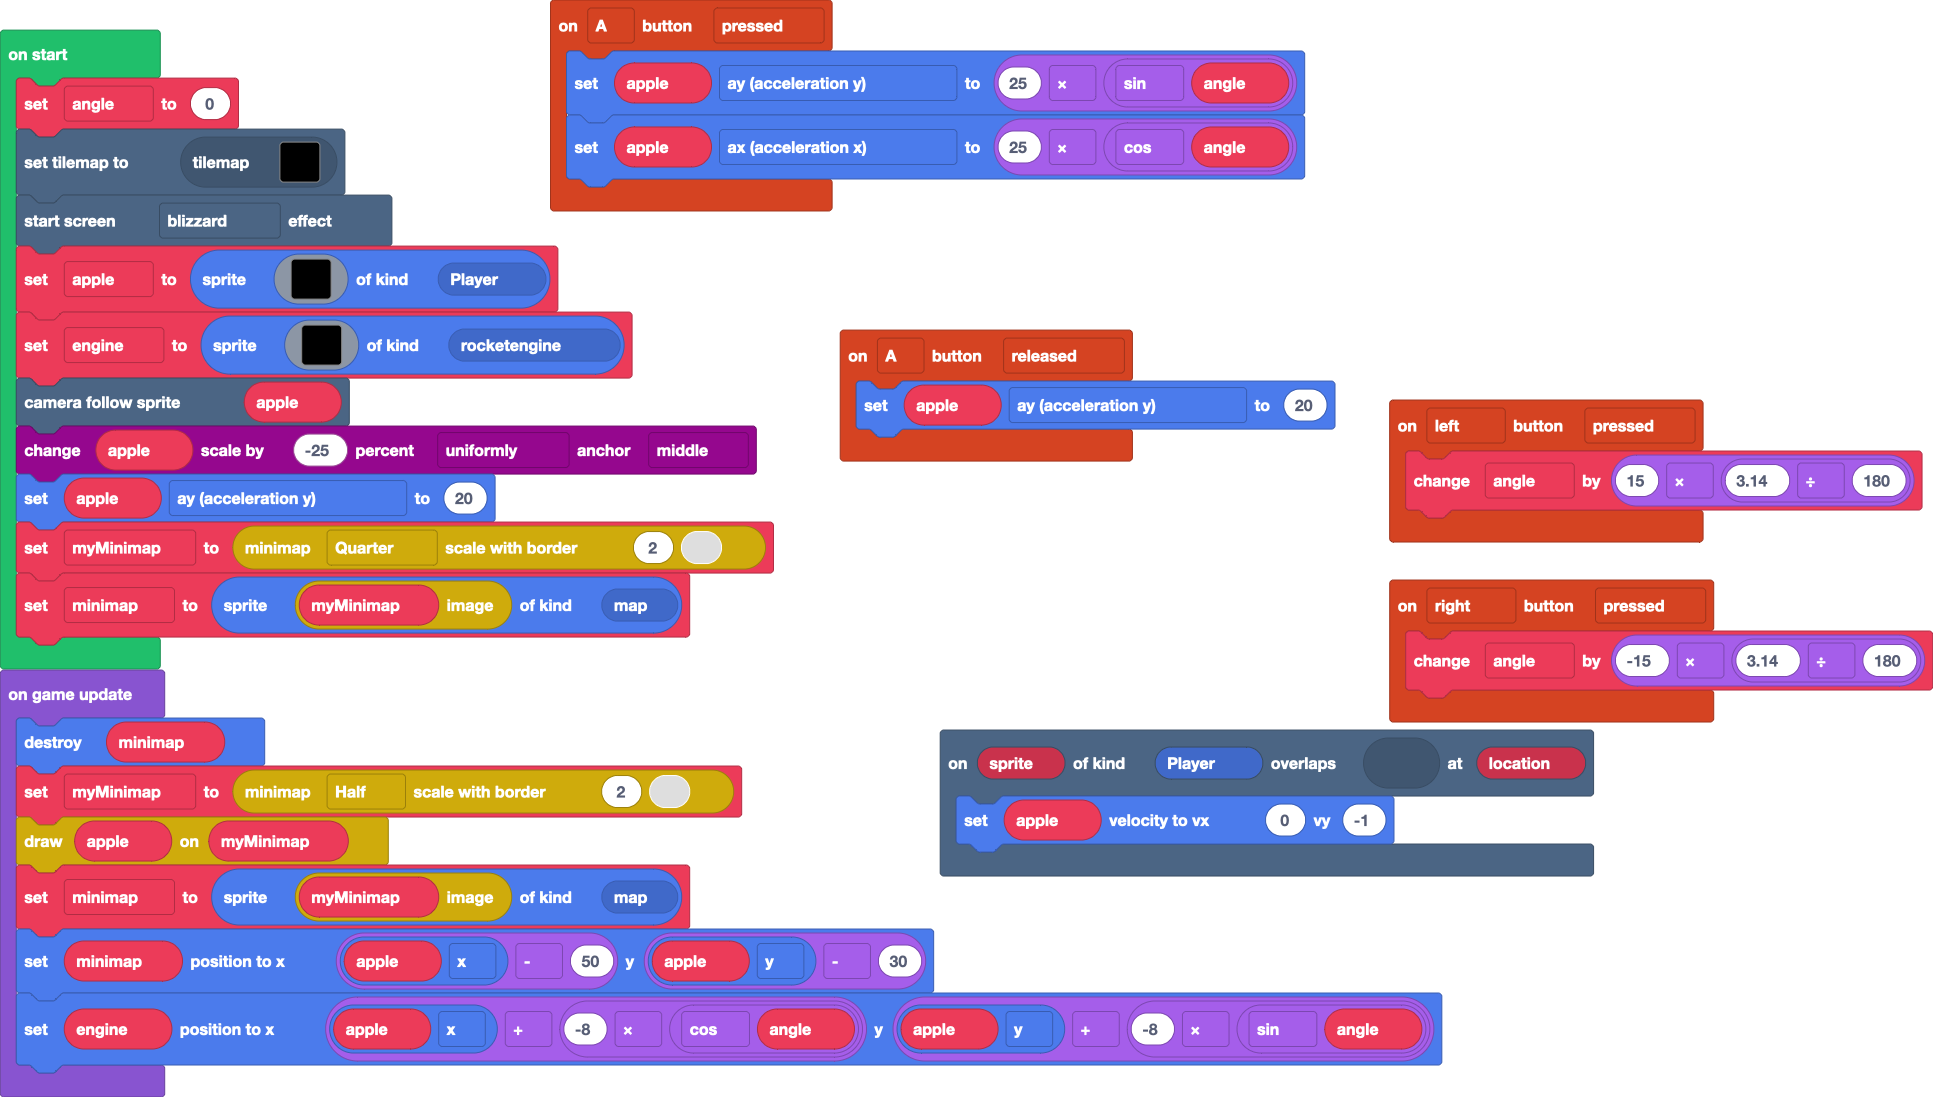
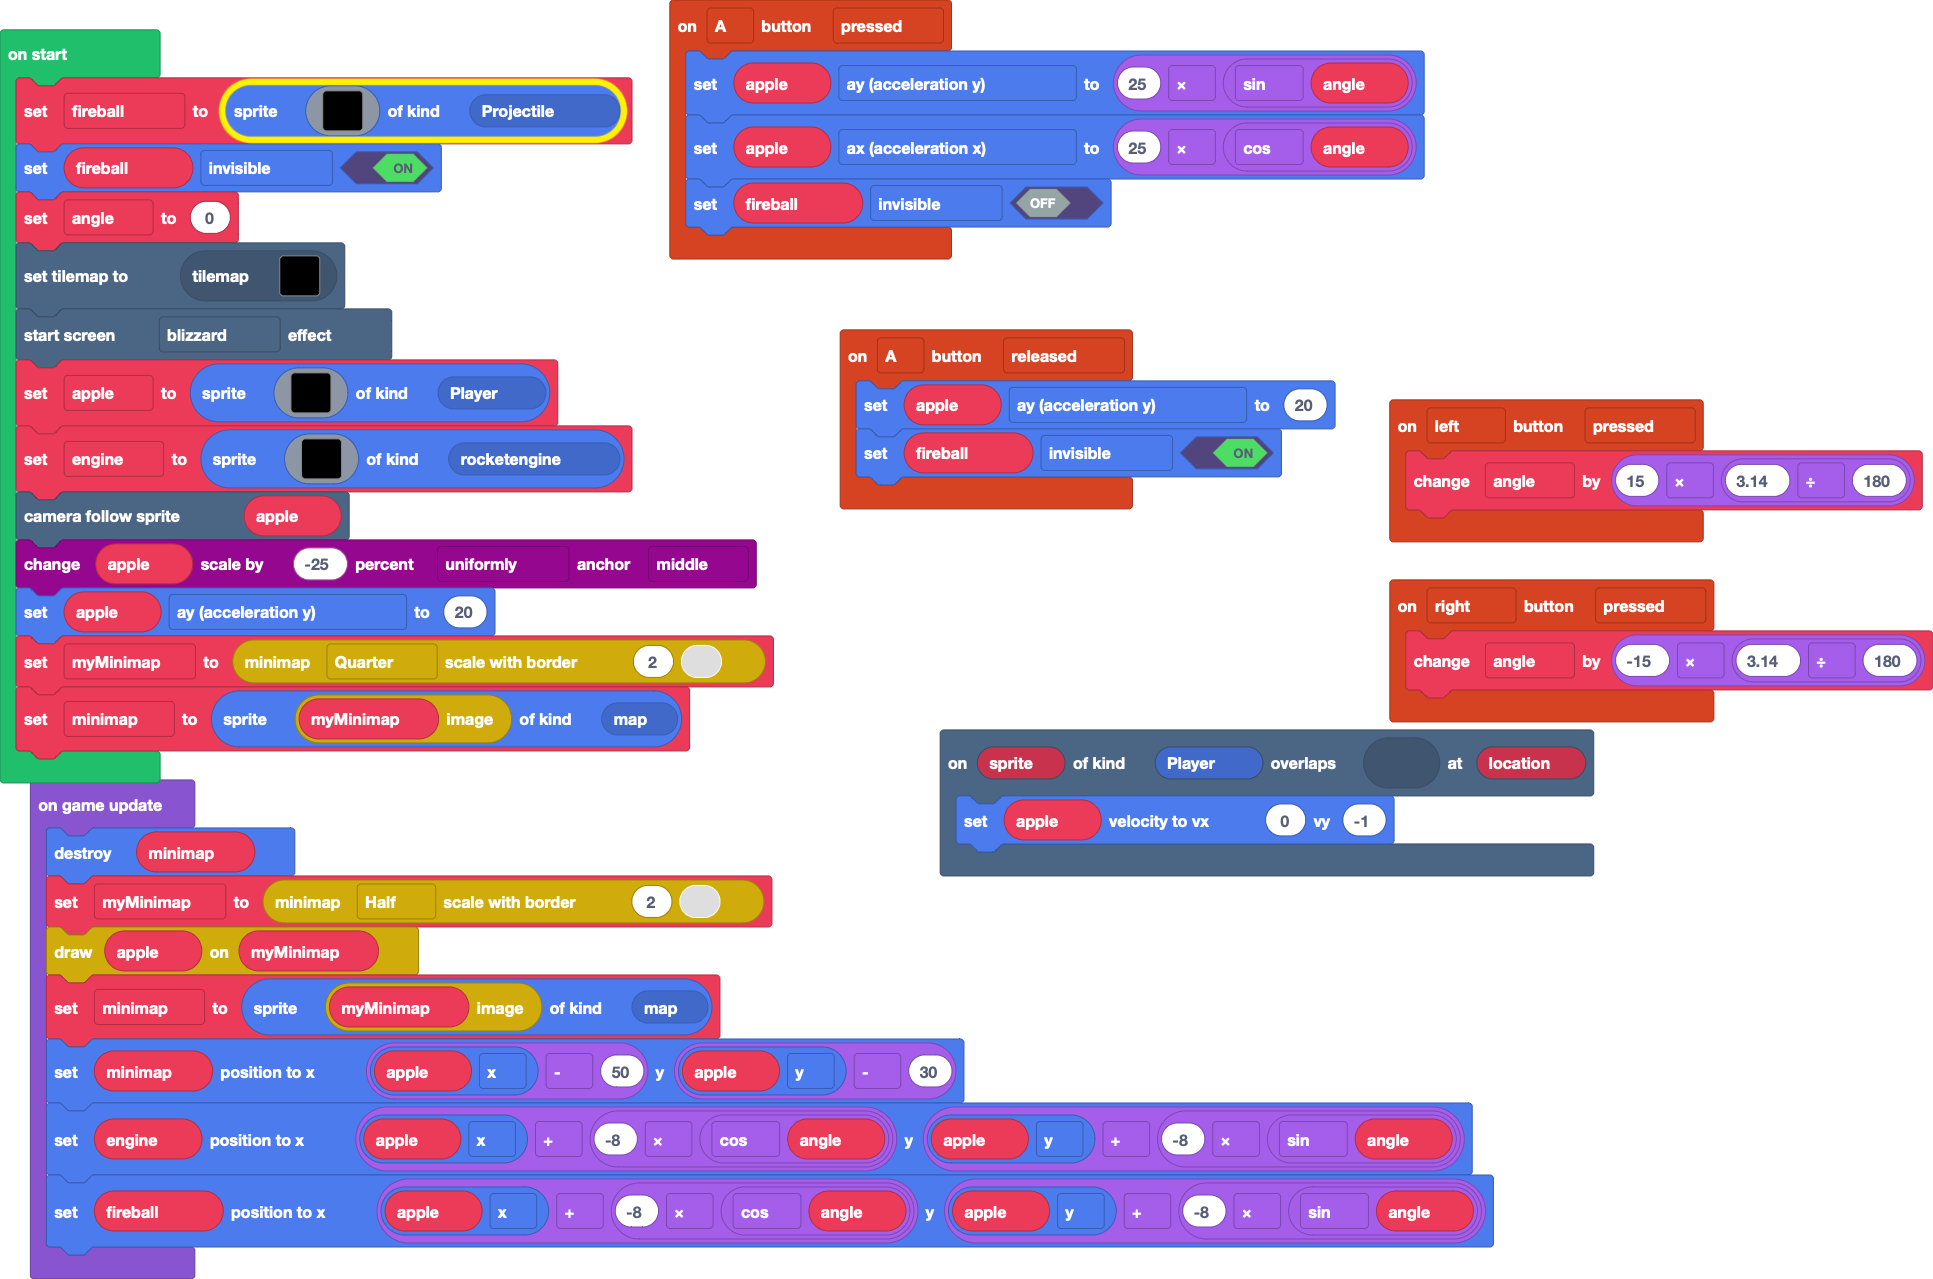
finish fireball

diff --git a/main.ts b/main.ts
@@ -5,6 +5,7 @@ namespace SpriteKind {
 controller.A.onEvent(ControllerButtonEvent.Pressed, function () {
     apple.ay = 25 * Math.sin(angle)
     apple.ax = 25 * Math.cos(angle)
+    fireball.setFlag(SpriteFlag.Invisible, false)
 })
 controller.left.onEvent(ControllerButtonEvent.Pressed, function () {
     angle += 15 * (3.14 / 180)
@@ -14,12 +15,33 @@ controller.right.onEvent(ControllerButtonEvent.Pressed, function () {
 })
 controller.A.onEvent(ControllerButtonEvent.Released, function () {
     apple.ay = 20
+    fireball.setFlag(SpriteFlag.Invisible, true)
 })
 scene.onOverlapTile(SpriteKind.Player, sprites.dungeon.darkGroundNorthWest0, function (sprite, location) {
     apple.setVelocity(0, -1)
 })
 let apple: Sprite = null
 let angle = 0
+let fireball: Sprite = null
+fireball = sprites.create(img`
+    . . . . . . . . . . . . . . . . 
+    . . . . . . . . . . . . . . . . 
+    . . . . . 4 4 4 4 4 . . . . . . 
+    . . . 4 4 4 5 5 5 d 4 4 4 4 . . 
+    . . 4 d 5 d 5 5 5 d d d 4 4 . . 
+    . . 4 5 5 1 1 1 d d 5 5 5 4 . . 
+    . 4 5 5 5 1 1 1 5 1 1 5 5 4 4 . 
+    . 4 d d 1 1 5 5 5 1 1 5 5 d 4 . 
+    . 4 5 5 1 1 5 1 1 5 5 d d d 4 . 
+    . 2 5 5 5 d 1 1 1 5 1 1 5 5 2 . 
+    . 2 d 5 5 d 1 1 1 5 1 1 5 5 2 . 
+    . . 2 4 d d 5 5 5 5 d d 5 4 . . 
+    . . . 2 2 4 d 5 5 d d 4 4 . . . 
+    . . 2 2 2 2 2 4 4 4 2 2 2 . . . 
+    . . . 2 2 4 4 4 4 4 4 2 2 . . . 
+    . . . . . 2 2 2 2 2 2 . . . . . 
+    `, SpriteKind.Projectile)
+fireball.setFlag(SpriteFlag.Invisible, true)
 angle = 0
 tiles.setCurrentTilemap(tilemap`level1`)
 effects.blizzard.startScreenEffect()
@@ -42,8 +64,12 @@ apple = sprites.create(img`
     . . . . . 2 2 e e e e . . . . . 
     `, SpriteKind.Player)
 let engine = sprites.create(img`
-    7 3 
-    3 7 
+    . . . . . . 
+    . . 5 5 . . 
+    5 5 5 5 5 5 
+    5 4 4 4 4 5 
+    5 4 2 2 4 5 
+    5 4 2 2 4 5 
     `, SpriteKind.rocketengine)
 scene.cameraFollowSprite(apple)
 scaling.scaleByPercent(apple, -25, ScaleDirection.Uniformly, ScaleAnchor.Middle)
@@ -57,4 +83,5 @@ game.onUpdate(function () {
     minimap2 = sprites.create(minimap.getImage(myMinimap), SpriteKind.map)
     minimap2.setPosition(apple.x - 50, apple.y - 30)
     engine.setPosition(apple.x + -8 * Math.cos(angle), apple.y + -8 * Math.sin(angle))
+    fireball.setPosition(apple.x + -8 * Math.cos(angle), apple.y + -8 * Math.sin(angle))
 })
